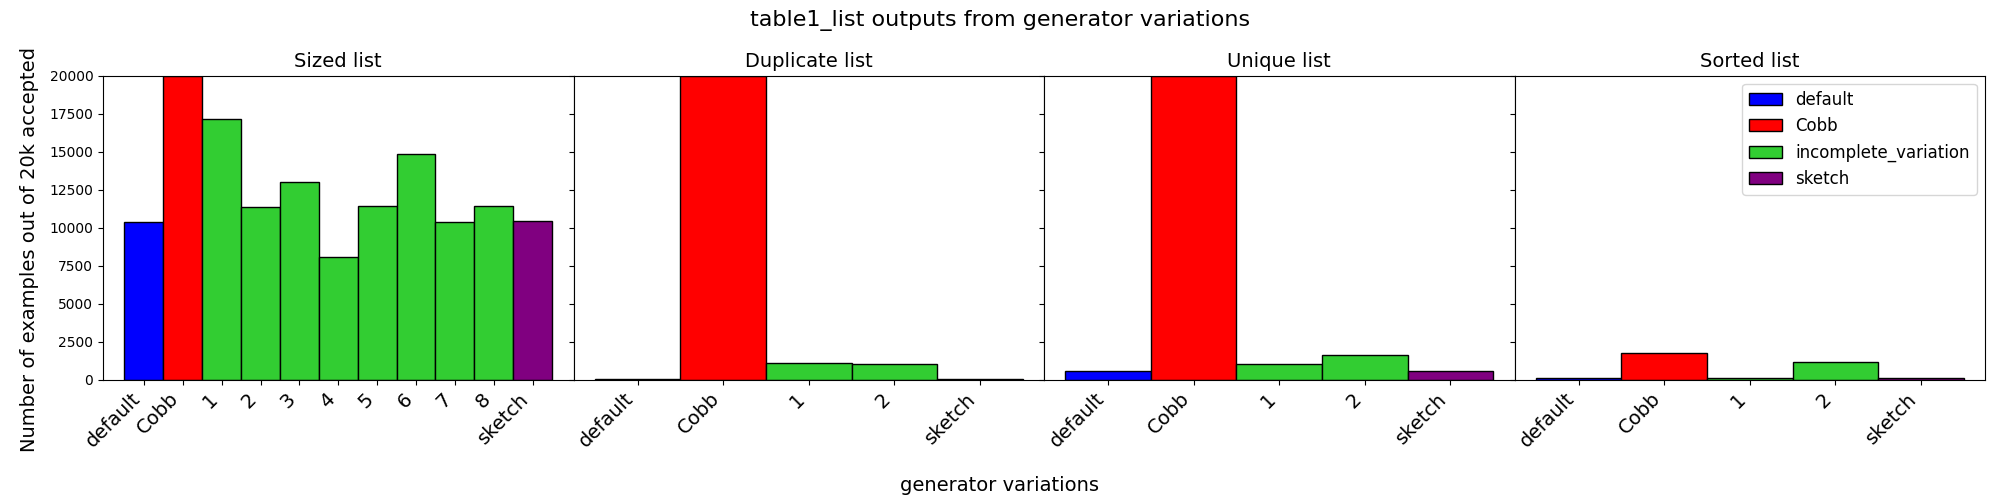
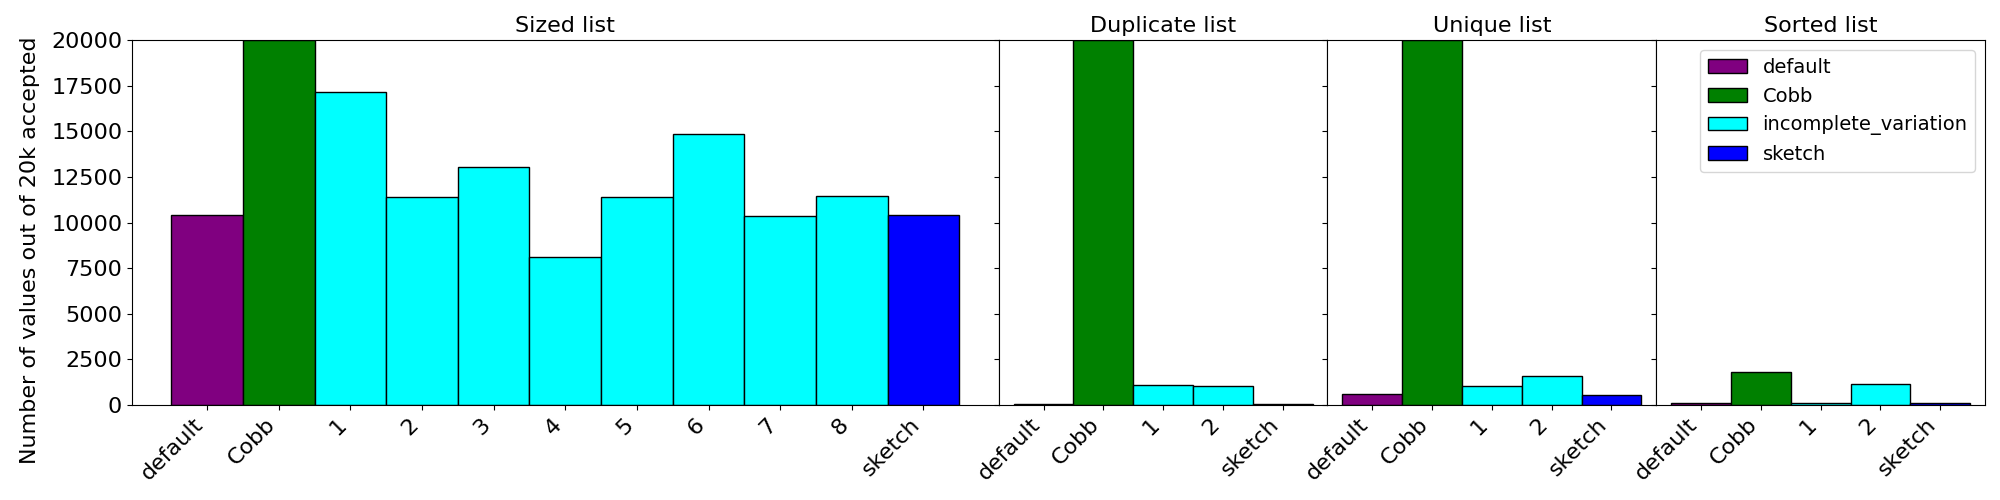
Make changes to graphs

diff --git a/scripts/bar_graph.py b/scripts/bar_graph.py
@@ -10,13 +10,13 @@ import numpy as np
 
 def color_from_name(name):
     if name == "prog":
-        return "red"
+        return "green"
     elif name == "default":
-        return "blue"
-    elif "sketch" in name:
         return "purple"
+    elif "sketch" in name:
+        return "blue"
     else:
-        return "limegreen"
+        return "cyan"
 
 
 # cli
@@ -48,19 +48,41 @@ tree_names = [
     "Rbtree",
 ]
 
+fontsize = 16
 bar_width = 0.6
 fig_width = 20  # Your figure width
+
+
+def find_numbers_in_groups(names):
+    res = []
+    for idx, (name) in enumerate(names):
+        path = re.sub(r"\ ", "_", name)
+
+        files = glob.glob("./csv/" + path + "/" + table + ".csv")
+        for file in files:
+            with open(file, "r") as fin:
+                csv_reader = csv.reader(fin)
+                # Skip the header
+                next(csv_reader)
+
+                rows = list(csv_reader)
+                res.append(len(rows))
+    return res
 
 
 def create_graph(names, table_name):
     n_groups = len(names)
 
-    fig, axes = plt.subplots(1, n_groups, sharey=True)
+    # This width ratios thing is a huge pain, but Ben really wants the bars to
+    # be of equal width
+    width_ratios = find_numbers_in_groups(names)
+
+    fig, axes = plt.subplots(1, n_groups, sharey=True, width_ratios=width_ratios)
 
     fig.set_size_inches(fig_width, 5)
-    fig.suptitle(table_name + " outputs from generator variations", fontsize=16)
-    fig.supxlabel("generator variations", fontsize=14)
-    fig.supylabel("Number of examples out of 20k accepted", fontsize=14, x=0.01)
+    # fig.suptitle(table_name + " outputs from generator variations", fontsize=fontsize)
+    # fig.supxlabel("generator variations", fontsize=fontsize)
+    fig.supylabel("Number of values out of 20k accepted", fontsize=fontsize, x=0.01)
 
     # goes through each folder, and matches the csv that matches the table name
     for idx, (name, ax) in enumerate(zip(names, axes)):
@@ -100,6 +122,7 @@ def create_graph(names, table_name):
             # Add labels and title
             ax.set_xticks(x_pos)
             ax.set_ylim(0, 20000)
+            plt.setp(ax.get_yticklabels(), fontsize=fontsize)
 
             # Hack: How to get names not following implicit order?
             names = (
@@ -111,8 +134,8 @@ def create_graph(names, table_name):
                 if table == "table1"
                 else ([str(i) for i in range(1, len(data.keys()))] + ["sketch"])
             )
-            ax.set_xticklabels(names, rotation=45, ha="right", fontsize=14)
-            ax.set_title(name, fontsize=14)
+            ax.set_xticklabels(names, rotation=45, ha="right", fontsize=fontsize)
+            ax.set_title(name, fontsize=fontsize)
 
             # Add x markers for zero values
             for i, value in enumerate(data.values()):
@@ -132,7 +155,7 @@ def create_graph(names, table_name):
 
         # HACK: do this better
         if idx == n_groups - 1:
-            ax.legend(bar_elements, elements, fontsize=12)
+            ax.legend(bar_elements, elements, fontsize=fontsize - 2)
 
     # Add values on top of bars
     # for name, value in data.items():
